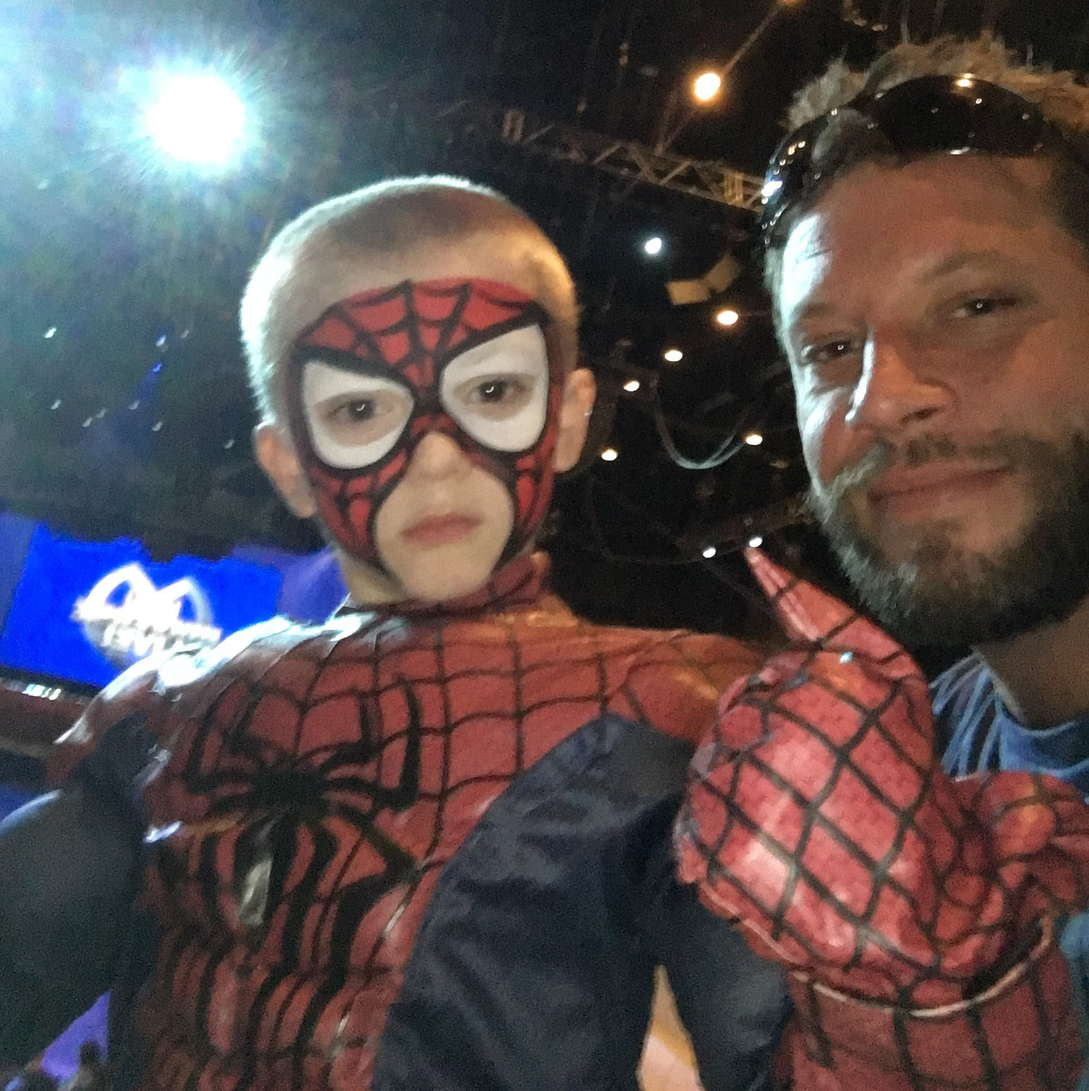
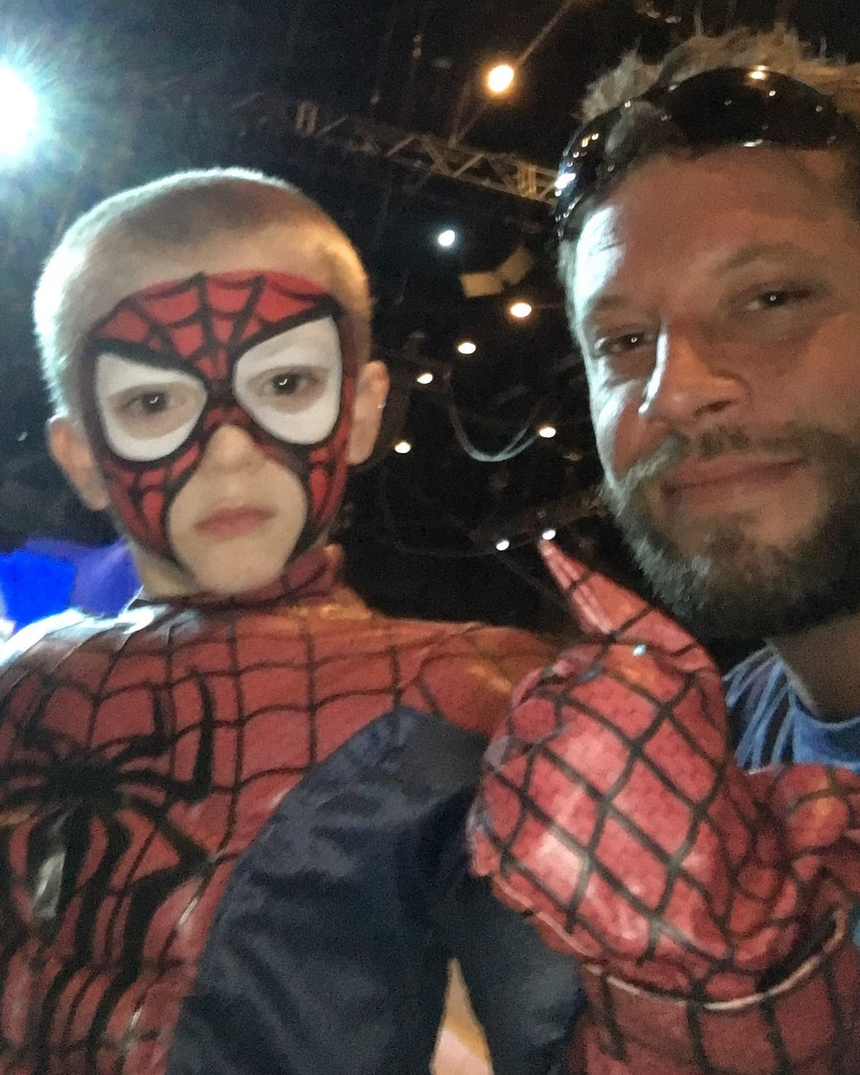
resized pics, created flip1,2

diff --git a/photos.html b/photos.html
@@ -1,8 +1,6 @@
 <!DOCTYPE html>
 <html lang="en">
-
 <head>
-
     <meta charset="utf-8">
     <meta http-equiv="X-UA-Compatible" content="IE=edge">
     <meta name="viewport" content="width=device-width, shrink-to-fit=no, initial-scale=1">
@@ -11,7 +9,7 @@
 
     <title>Joe's Simple Sidebar</title>
 
-    <link href="css/bootstrap.min.css" rel="stylesheet">    <!-- Custom CSS -->
+    <link href="css/bootstrap.min.css" rel="stylesheet">    
     <link href="css/style.css" rel="stylesheet">
 </head>
 <body id="grad">

diff --git a/index.html b/index.html
@@ -16,7 +16,6 @@
 </head>
 
 <body id="grad">
-
    <nav class="navbar navbar-inverse navbar-fixed-top">
        <div class="container">
          <div class="navbar-header">

diff --git a/css/style.css b/css/style.css
@@ -25,4 +25,6 @@ h2{
 img{
   margin:10px;
   border: 2px solid black;
+  max-width: 480px;
+  max-height: 600px;
 }
